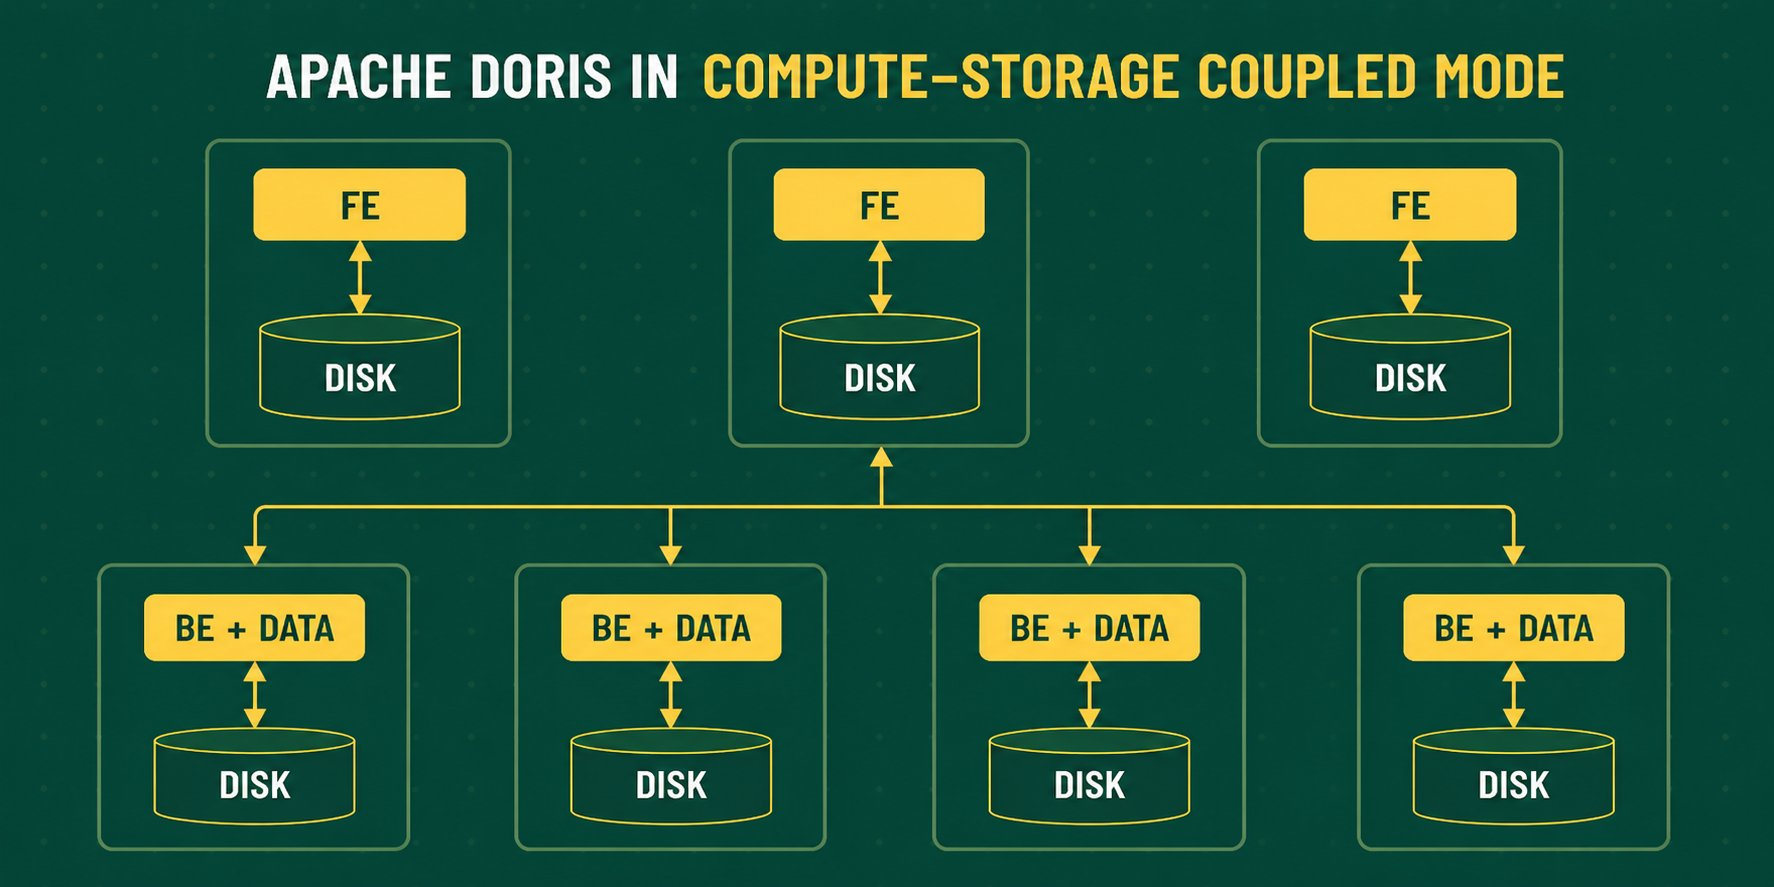
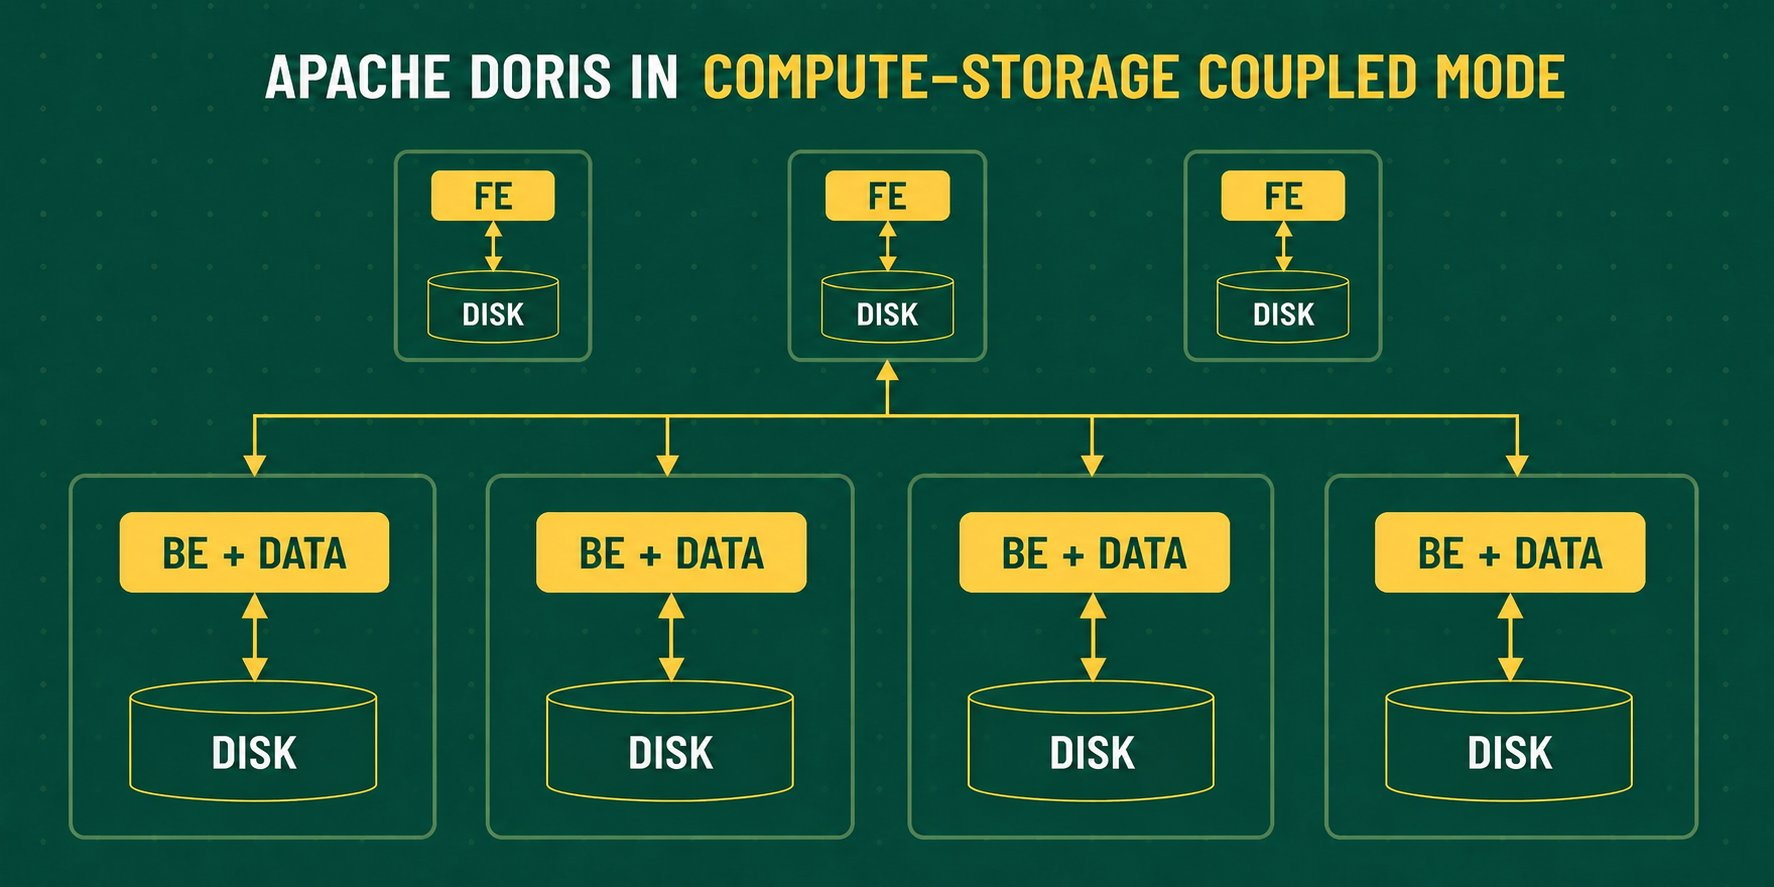
1

Changed region(s): [[0.031, 0.1522, 0.9611, 0.9741], [0.372, 0.0609, 0.8991, 0.1218], [0.155, 0.0609, 0.341, 0.1218]]

diff --git a/src/components/home-next/sections/DeploymentSection.scss b/src/components/home-next/sections/DeploymentSection.scss
@@ -174,15 +174,14 @@
 
     &__visual-image {
         position: relative;
-        width: auto;
-        height: min(100%, 312px);
-        max-width: 100%;
+        width: 100%;
+        max-width: 624px;
+        height: auto;
         max-height: 100%;
         display: block;
         border: 2px solid var(--dn-cream-light);
         border-radius: 8px;
         box-sizing: border-box;
-        object-fit: contain;
     }
 
     &__card--ink &__visual {
@@ -271,10 +270,6 @@
             min-height: 230px;
             padding: 20px;
         }
-
-        &__visual-image {
-            height: min(100%, 190px);
-        }
     }
 }
 
@@ -318,10 +313,6 @@
         &__visual {
             min-height: 180px;
             padding: 16px;
-        }
-
-        &__visual-image {
-            height: min(100%, 148px);
         }
     }
 }